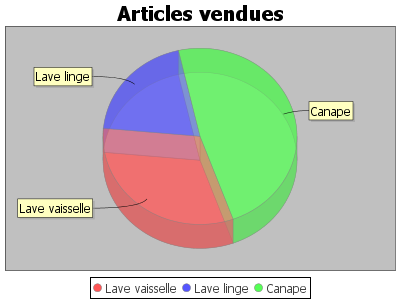
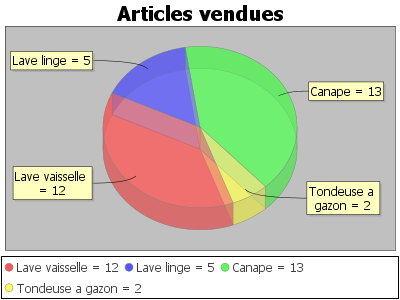
Modif

diff --git a/src/main/webapp/css/menu.css b/src/main/webapp/css/menu.css
@@ -81,3 +81,43 @@ h1{
 	background-size: cover;
 
 }
+
+.bouttonClient:hover{
+	background: url(../css/img/People-128-actif.png);
+	background-size: cover;
+	border-radius:50%;
+	border : none;
+	width:150px;
+	height:150px;
+}
+
+.bouttonArticle:hover{
+	background: url(../css/img/Product-128-actif.png);
+	background-size: cover;
+	border-radius:50%;
+	border : none;
+	width:150px;
+	height:150px;
+}
+
+.bouttonStats:hover{
+	background: url(../css/img/Diagram-128-actif.png);
+	background-size: cover;
+	border-radius:50%;
+	border : none;
+	width:150px;
+	height:150px;
+}
+
+.bouttonCommande:hover{
+	background: url(../css/img/Shopping-Bag-128-actif.png);
+	background-size: cover;
+	border-radius:50%;
+	border : none;
+	width:150px;
+	height:150px;
+}
+
+.deco{
+	margin-top: 50px;
+}

diff --git a/src/main/java/com/formation/util/Statistique.java b/src/main/java/com/formation/util/Statistique.java
@@ -51,9 +51,12 @@ public class Statistique {
 		 		}
 		 		else if(desi.equals(list.get(i -1))){
 		 			compt +=1;
+		 			if(i == list.size() -1){
+		 				result.setValue(list.get(i) +" = "+ compt, compt);
+		 			}
 		 		}
 		 		else {
-		 			result.setValue(list.get(i-1), compt);
+		 			result.setValue(list.get(i-1) +" = "+ compt, compt);
 		 			compt = 1;
 		 		}
 		 		
